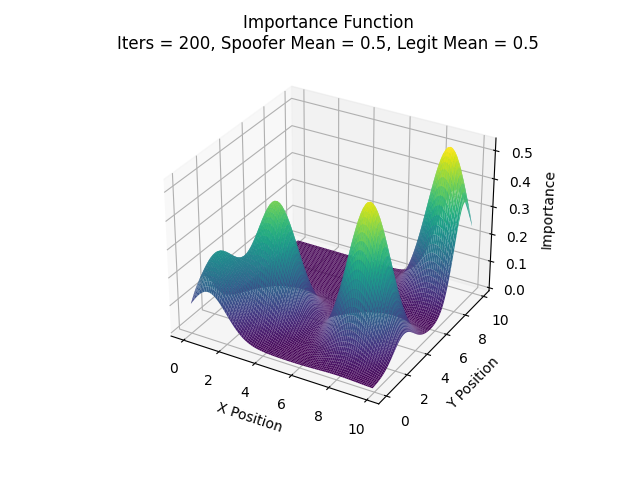
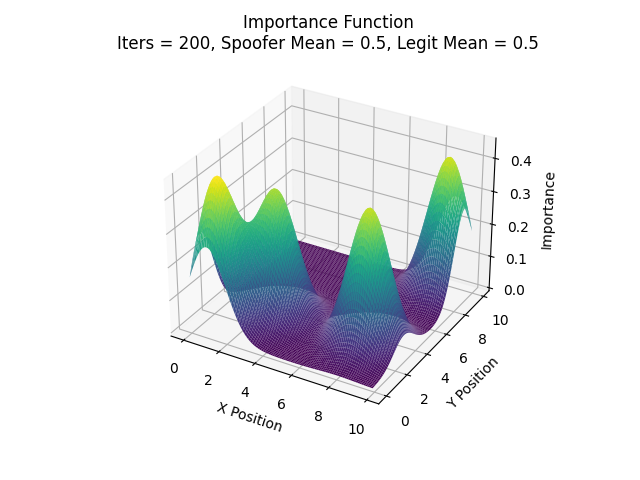
Re-ran 1Eii.

diff --git a/PSET3/Scripts/coverage-spoof.py b/PSET3/Scripts/coverage-spoof.py
@@ -239,7 +239,7 @@ if __name__ == "__main__":
     clients = [client1, client2, client3, client4]
 
     # Define variables for easier eval--just change these according to below comment!
-    part = "B" # part of question #1 to be considered
+    part = "Eii" # part of question #1 to be considered
     num_iter = 200 # number of iterations
 
     '''
